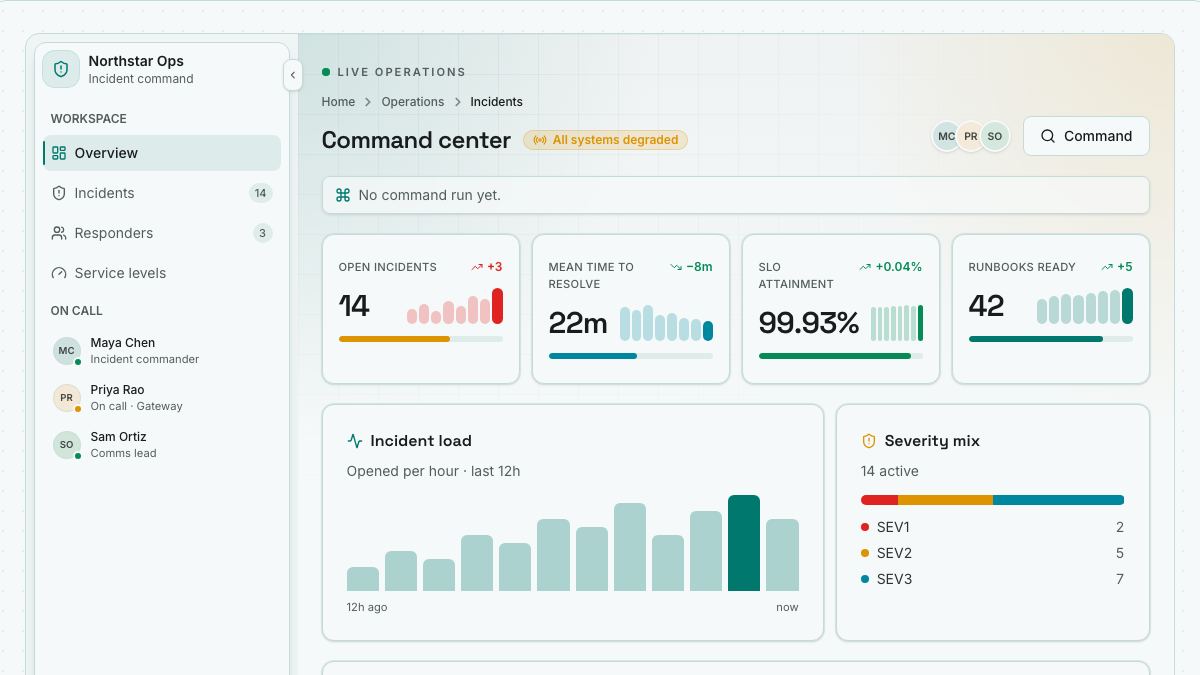
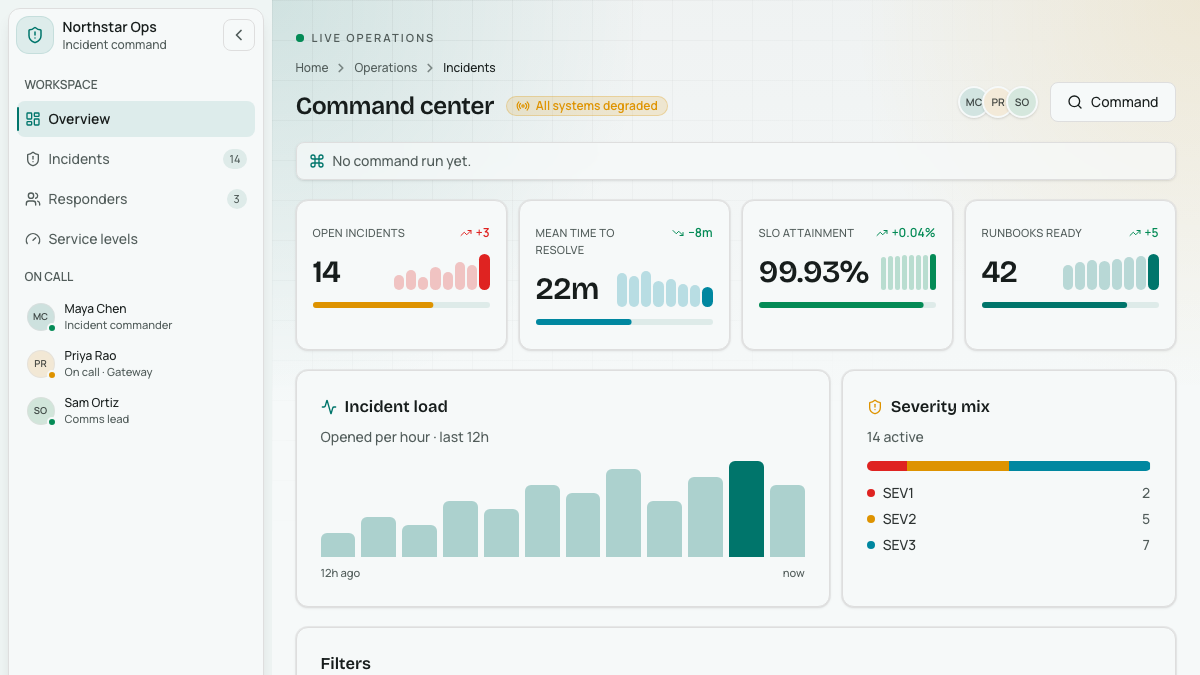
fix: improve command center sidebar layout and tooltip stacking

diff --git a/apps/showcase/src/examples/recipes/command-center-dashboard.tsx b/apps/showcase/src/examples/recipes/command-center-dashboard.tsx
@@ -21,7 +21,6 @@ import {
 } from "lucide-react";
 import {
   Breadcrumb,
-  Button,
   Card,
   CardContent,
   CardDescription,
@@ -45,12 +44,13 @@ import {
   SidebarHeader,
   SidebarInset,
   SidebarMenu,
+  SidebarMenuButton,
   SidebarMenuItem,
   SidebarMenuLink,
   SidebarMobile,
   SidebarMobileTrigger,
   SidebarProvider,
-  SidebarRail,
+  SidebarTrigger,
   type CommandPaletteCommand,
   type DataTableColumnDef,
   type ProgressTone,
@@ -411,18 +411,22 @@ export function CommandCenterDashboardRecipe({
       <div
         data-recipe-surface="command-center-dashboard"
         className={cn(
-          "border-border bg-muted/30 flex overflow-hidden border",
+          "border-border bg-muted/30 flex w-full min-w-0 border",
           fullPage
-            ? "min-h-[calc(100dvh-7rem)] rounded-none border-x-0 border-t-0"
-            : "min-h-[42rem] rounded-xl",
+            ? "min-h-[calc(100dvh-7rem)] overflow-clip rounded-none border-x-0 border-t-0"
+            : "min-h-[42rem] overflow-hidden rounded-xl",
         )}
       >
         <Sidebar
           aria-label="Command center navigation"
-          className={fullPage ? "max-md:hidden" : undefined}
+          className={
+            fullPage
+              ? "sticky top-[calc(var(--site-header-height)+4rem)] z-20 h-[calc(100dvh-var(--site-header-height)-4.5rem)] self-start max-md:hidden"
+              : "z-20"
+          }
         >
           <SidebarHeader>
-            <div className="flex min-w-0 items-center justify-between gap-2">
+            <div className="flex min-w-0 items-center justify-between gap-2 group-data-[collapsed=true]/sidebar:flex-col">
               <div className="flex min-w-0 items-center gap-2.5">
                 <span
                   aria-hidden="true"
@@ -430,7 +434,7 @@ export function CommandCenterDashboardRecipe({
                 >
                   <ShieldAlert className="size-4.5" />
                 </span>
-                <div className="min-w-0">
+                <div className="min-w-0 group-data-[collapsed=true]/sidebar:hidden">
                   <div className="text-foreground truncate text-sm font-semibold">
                     Northstar Ops
                   </div>
@@ -439,6 +443,7 @@ export function CommandCenterDashboardRecipe({
                   </div>
                 </div>
               </div>
+              <SidebarTrigger className="shrink-0" />
             </div>
           </SidebarHeader>
           <SidebarContent>
@@ -492,7 +497,8 @@ export function CommandCenterDashboardRecipe({
                   {responders.map((person) => (
                     <li
                       key={person.name}
-                      className="flex items-center gap-2.5 rounded-md px-1.5 py-1"
+                      className="flex items-center gap-2.5 rounded-md px-1.5 py-1 group-data-[collapsed=true]/sidebar:justify-center group-data-[collapsed=true]/sidebar:px-0"
+                      title={`${person.name} · ${person.role} · ${person.status}`}
                     >
                       <span className="relative shrink-0">
                         <span
@@ -511,7 +517,7 @@ export function CommandCenterDashboardRecipe({
                           }`}
                         />
                       </span>
-                      <span className="min-w-0 flex-1">
+                      <span className="min-w-0 flex-1 group-data-[collapsed=true]/sidebar:sr-only">
                         <span className="text-foreground block truncate text-xs font-medium">
                           {person.name}
                         </span>
@@ -525,20 +531,23 @@ export function CommandCenterDashboardRecipe({
               </SidebarGroupContent>
             </SidebarGroup>
           </SidebarContent>
-          <SidebarFooter>
-            <Button size="sm" variant="outline" leftIcon={<Settings2 />}>
-              Settings
-            </Button>
+          <SidebarFooter className="border-border border-t">
+            <SidebarMenu>
+              <SidebarMenuItem>
+                <SidebarMenuButton icon={<Settings2 aria-hidden="true" />}>
+                  Settings
+                </SidebarMenuButton>
+              </SidebarMenuItem>
+            </SidebarMenu>
           </SidebarFooter>
-          <SidebarRail />
         </Sidebar>
 
         {fullPage ? (
           <SidebarMobile
             label="Command center navigation"
-            className="md:hidden"
+            className="w-[min(20rem,calc(100vw-2rem))] md:hidden"
           >
-            <SidebarHeader>
+            <SidebarHeader className="pr-14">
               <div className="flex min-w-0 items-center gap-2.5">
                 <span
                   aria-hidden="true"

diff --git a/e2e/showcase-recipe-full-page.spec.ts b/e2e/showcase-recipe-full-page.spec.ts
@@ -18,6 +18,65 @@ const representativeRoutes = [
 ];
 
 test.describe("showcase full-page recipe shell", () => {
+  test("command center sidebar keeps collapsed controls inside its rail while scrolling", async ({
+    page,
+  }) => {
+    await page.setViewportSize({ width: 1440, height: 900 });
+    await page.emulateMedia({ reducedMotion: "reduce" });
+    await page.goto(recipePath);
+    const sidebar = page.getByRole("navigation", {
+      name: "Command center navigation",
+      exact: true,
+    });
+    await sidebar
+      .getByRole("button", { name: "Collapse sidebar", exact: true })
+      .click();
+    await expect(sidebar).toHaveAttribute("data-collapsed", "true");
+    const settings = sidebar.getByRole("button", {
+      name: "Settings",
+      exact: true,
+    });
+    await expect(settings).toBeVisible();
+    await page
+      .locator('[data-recipe-surface="command-center-dashboard"]')
+      .evaluate((surface) => {
+        window.scrollTo(
+          0,
+          window.scrollY +
+            surface.getBoundingClientRect().bottom -
+            window.innerHeight,
+        );
+      });
+    const rail = (await sidebar.boundingBox())!;
+    const control = (await settings.boundingBox())!;
+    expect(control.x).toBeGreaterThanOrEqual(rail.x);
+    expect(control.x + control.width).toBeLessThanOrEqual(rail.x + rail.width);
+    expect(rail.y).toBeGreaterThanOrEqual(144);
+    expect(control.y + control.height).toBeLessThanOrEqual(900);
+    await sidebar
+      .getByRole("button", { name: "Expand sidebar", exact: true })
+      .click();
+    await expect(sidebar).toHaveAttribute("data-collapsed", "false");
+    await expect(sidebar.getByText("Northstar Ops")).toBeVisible();
+
+    await page.setViewportSize({ width: 390, height: 844 });
+    const mobileTrigger = page.getByRole("button", {
+      name: "Open sidebar",
+      exact: true,
+    });
+    await mobileTrigger.click();
+    const drawer = page.getByRole("dialog", {
+      name: "Command center navigation",
+    });
+    await expect(drawer).toBeVisible();
+    await expect(
+      drawer.getByRole("link", { name: "Overview", exact: true }),
+    ).toBeVisible();
+    await page.keyboard.press("Escape");
+    await expect(drawer).not.toBeVisible();
+    await expect(mobileTrigger).toBeFocused();
+  });
+
   test("puts the representative product in the first desktop viewport", async ({
     page,
   }) => {
